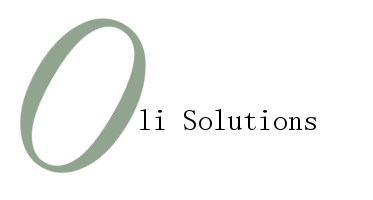
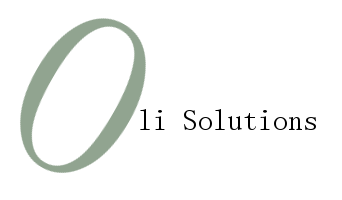
This commit updates the header

Changed region(s): [[0.0292, 0.09, 0.9357, 0.87]]

diff --git a/index.html b/index.html
@@ -16,7 +16,7 @@ index.html
 		<body>
 			<div>
 				<div class="jumbotron">
-					<div>
+					<div class="header-img">
 						<img src="photos/header.png"/>
 						<div class="dropdown-div">
 							<button onclick="dropdownFunction()" class="drop-button btn"><span class="glyphicon glyphicon-menu-hamburger drop-button"></span></button>

diff --git a/css/index.css b/css/index.css
@@ -9,6 +9,11 @@
 	margin-bottom: 0;
 }
 
+.header-img
+{
+	text-align: center;
+}
+
 .header-links
 {
 	text-align: center;
